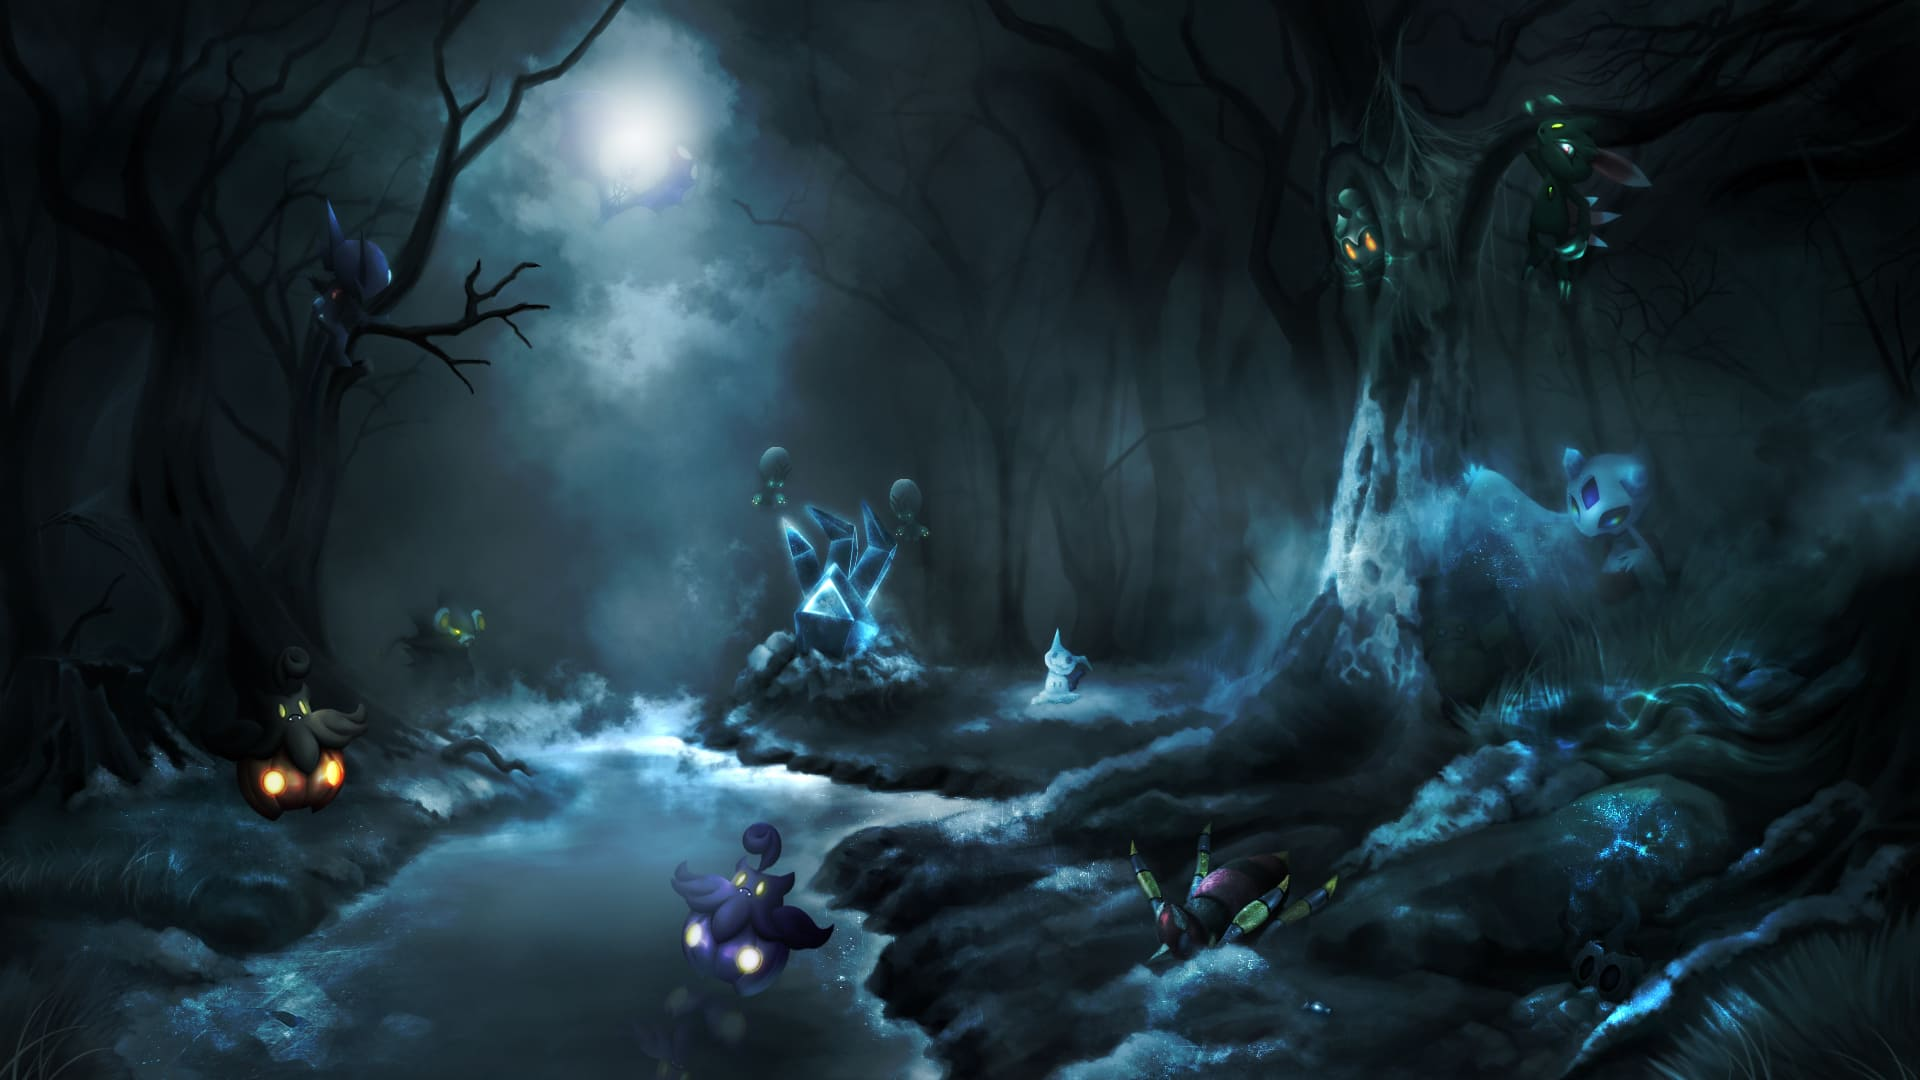
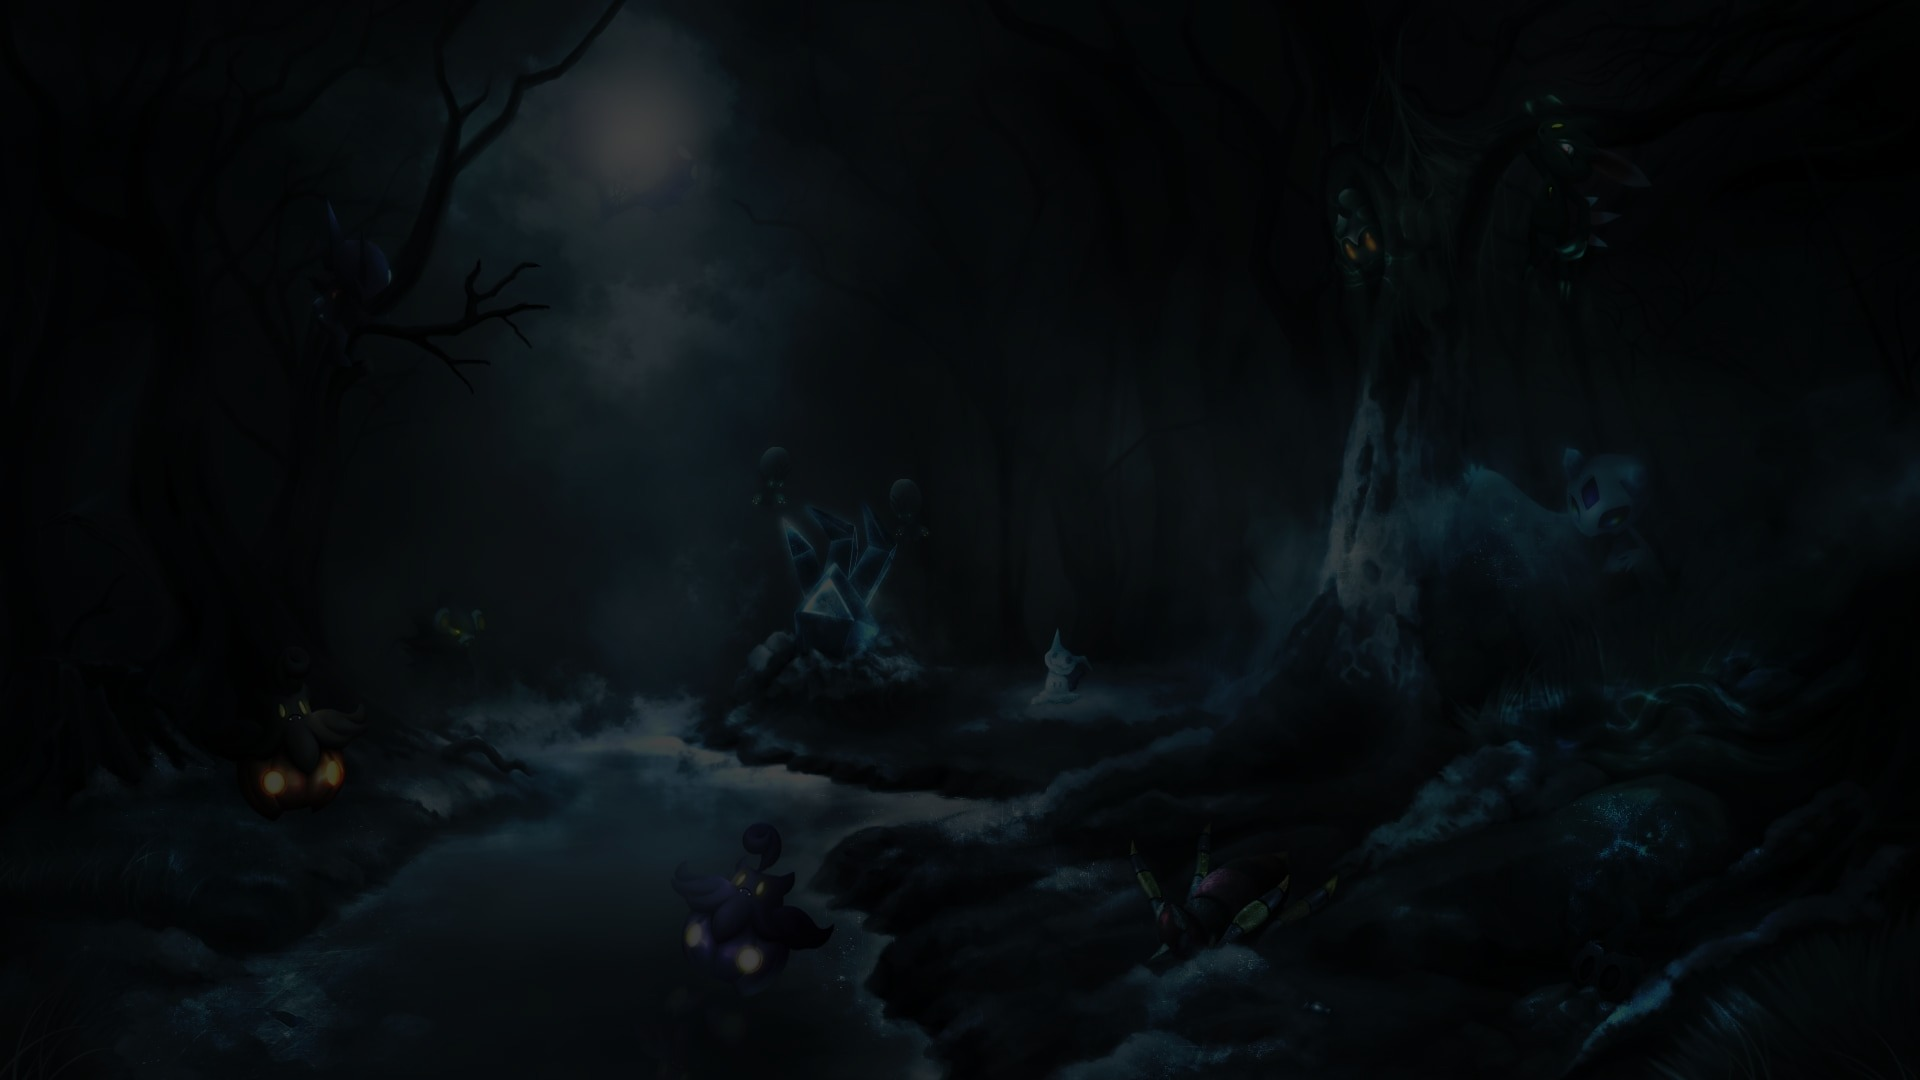
Darken background images and added two new ones.

diff --git a/src/components/Footer/Footer.tsx b/src/components/Footer/Footer.tsx
@@ -40,15 +40,17 @@ const Footer: React.FC<FooterProps> = ({ setBackgroundImage }) => {
           <div className="theme-selector">
             <label htmlFor="theme">Theme:</label>
             <select id="theme" value={selectedTheme} onChange={handleThemeChange}>
-              <option value="background-images/Pikachu.jpg">Pikachu</option>
-              <option value="background-images/PokemonGo.jpg">Pokemon GO</option>
-              <option value="background-images/OldChateau.jpg">Old Chateau</option>
-              <option value="background-images/Darkrai.jpg">Darkrai</option>
-              <option value="background-images/Chandelure.jpg">Chandelure</option>
-              <option value="background-images/Halloween.jpg">Halloween</option>
-              <option value="background-images/Kyogre.jpg">Kyogre</option>
-              <option value="background-images/BlackRayquaza.jpg">Black Rayquaza</option>
-              <option value="background-images/Banette.jpg">Banette</option>
+              <option value="background-images/pikachu.jpg">Pikachu</option>
+              <option value="background-images/pokemon-go.jpg">Pokemon GO</option>
+              <option value="background-images/old-chateau.jpg">Old Chateau</option>
+              <option value="background-images/darkrai.jpg">Darkrai</option>
+              <option value="background-images/chandelure.jpg">Chandelure</option>
+              <option value="background-images/halloween.jpg">Halloween</option>
+              <option value="background-images/kyogre.jpg">Kyogre</option>
+              <option value="background-images/regice.jpg">Regice</option>
+              <option value="background-images/black-rayquaza.jpg">Rayquaza</option>
+              <option value="background-images/cofagrigus.jpg">Cofagrigus</option>
+              <option value="background-images/banette.jpg">Banette</option>
               <option value="/">No Theme</option>
             </select>
           </div>
